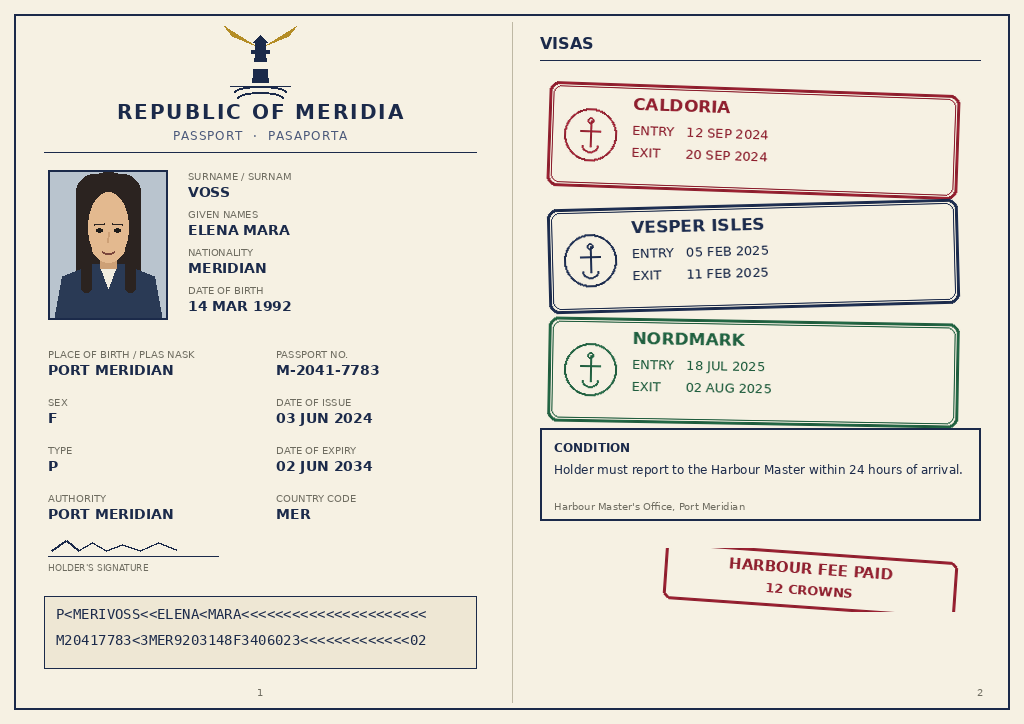
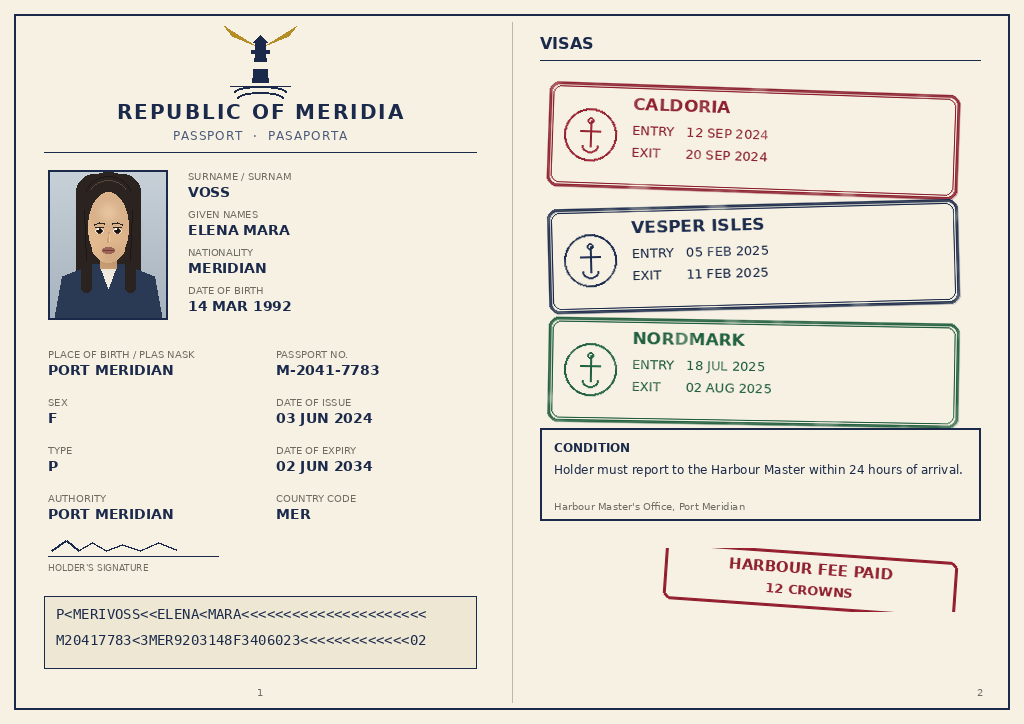
Fix weak parts: photo-like portrait shading + ink-like stamps (dates/names unchanged)

diff --git a/build-image.py b/build-image.py
@@ -9,7 +9,8 @@ running it twice produces a byte-identical PNG.
 
 import hashlib
 import os
-from PIL import Image, ImageDraw, ImageFont
+import random
+from PIL import Image, ImageChops, ImageDraw, ImageFilter, ImageFont
 
 W, H = 1024, 724
 CREAM = (246, 241, 227)
@@ -89,9 +90,20 @@ def lighthouse(draw, cx, top, scale=1.0):
 
 
 def portrait():
-    """Flat passport-style portrait: woman, dark hair, plain background."""
+    """Passport-style portrait, photo-like: woman, dark hair, navy blazer.
+    Gentle background gradient, soft radial light on the face, a shadow under
+    the chin, irises with catchlights, muted lips and hair strands — restrained,
+    like a real passport photo, not a cartoon."""
     pw, ph = 120, 150
-    img = Image.new("RGB", (pw, ph), PORTRAIT_BG)
+    # background: gentle vertical gradient, lighter at the top
+    top = (200, 209, 216)
+    bottom = (166, 178, 190)
+    grad = Image.new("RGB", (1, ph))
+    gpx = grad.load()
+    for y in range(ph):
+        t = y / (ph - 1)
+        gpx[0, y] = tuple(int(top[i] + (bottom[i] - top[i]) * t) for i in range(3))
+    img = grad.resize((pw, ph)).convert("RGBA")
     d = ImageDraw.Draw(img)
     # hair back (shoulder length)
     d.rounded_rectangle([28, 4, 92, 148], radius=18, fill=HAIR)
@@ -109,19 +121,45 @@ def portrait():
     d.rounded_rectangle([77, 34, 87, 122], radius=5, fill=HAIR)
     d.ellipse([36, 10, 84, 46], fill=HAIR)
     d.ellipse([40, 22, 80, 92], fill=SKIN)
-    # brows
-    d.line([46, 54, 56, 53], fill=HAIR, width=2)
-    d.line([64, 53, 74, 54], fill=HAIR, width=2)
-    # eyes
-    d.ellipse([48, 58, 54, 62], fill=(30, 28, 26))
-    d.ellipse([66, 58, 72, 62], fill=(30, 28, 26))
-    # nose
+    # hair strands: a few darker + lighter threads, softer edge
+    strand_dark = (28, 22, 20)
+    strand_light = (88, 70, 58)
+    d.arc([36, 6, 84, 52], 200, 340, fill=strand_dark, width=1)
+    d.arc([40, 10, 80, 46], 210, 330, fill=strand_light, width=1)
+    d.line([36, 40, 38, 90], fill=strand_dark, width=1)
+    d.line([84, 40, 82, 90], fill=strand_dark, width=1)
+    # soft light + shadow on the face (blurred, low alpha) — photo-like shading
+    overlay = Image.new("RGBA", (pw, ph), (0, 0, 0, 0))
+    od = ImageDraw.Draw(overlay)
+    od.ellipse([46, 28, 74, 56], fill=(255, 246, 230, 52))   # light, upper face
+    od.ellipse([54, 78, 80, 94], fill=(110, 70, 45, 36))     # shadow under chin
+    od.ellipse([74, 42, 84, 78], fill=(110, 70, 45, 20))     # shadow, right cheek
+    overlay = overlay.filter(ImageFilter.GaussianBlur(6))
+    img = Image.alpha_composite(img, overlay)
+    d = ImageDraw.Draw(img)
+    # brows, slightly arched
+    d.line([46, 54, 51, 52], fill=HAIR, width=2)
+    d.line([51, 52, 56, 53], fill=HAIR, width=2)
+    d.line([64, 53, 69, 52], fill=HAIR, width=2)
+    d.line([69, 52, 74, 54], fill=HAIR, width=2)
+    # eyes: sclera, iris, pupil, catchlight
+    for cx in (51, 69):
+        d.ellipse([cx - 4, 58, cx + 4, 63], fill=(242, 236, 228))
+        d.ellipse([cx - 3, 58, cx + 3, 63], fill=(94, 62, 40))
+        d.ellipse([cx - 2, 59, cx + 2, 62], fill=(22, 18, 16))
+        d.ellipse([cx - 2, 58, cx - 1, 59], fill=(255, 255, 255))
+    # lash line
+    d.line([47, 57, 55, 57], fill=HAIR, width=1)
+    d.line([65, 57, 73, 57], fill=HAIR, width=1)
+    # nose: soft shadow + highlight
     d.line([60, 62, 59, 72], fill=SKIN_DARK, width=2)
-    # mouth
-    d.arc([53, 76, 67, 84], 20, 160, fill=(122, 70, 60), width=2)
+    d.line([61, 64, 61, 71], fill=(240, 205, 168), width=1)
+    # mouth: muted closed lips
+    d.ellipse([54, 77, 66, 83], fill=(158, 100, 88))
+    d.line([55, 80, 65, 80], fill=(110, 62, 54), width=1)
     # frame
     d.rectangle([0, 0, pw - 1, ph - 1], outline=NAVY, width=2)
-    return img
+    return img.convert("RGB")
 
 
 def field(draw, x, y, label, value, label_size=10, value_size=14, width=200):
@@ -130,27 +168,51 @@ def field(draw, x, y, label, value, label_size=10, value_size=14, width=200):
 
 
 def stamp(text_lines, border, accent, rotate_deg, emblem="anchor"):
-    """One entry/exit stamp on its own layer, slightly rotated."""
+    """One entry/exit stamp on its own layer, slightly rotated.
+    Irregular, uneven ink like a real rubber stamp: a faint ghost border
+    (the stamp shifted a touch), a slightly fainter outer border, and
+    deterministic faded patches where the stamp was pressed unevenly."""
     sw, sh = 410, 104
     layer = Image.new("RGBA", (sw + 24, sh + 24), (0, 0, 0, 0))
     d = ImageDraw.Draw(layer)
     x0, y0 = 12, 12
+    ink = tuple(border) + (255,)
+    faint = tuple(border) + (60,)
+    # faint ghost border, offset 1px (the stamp shifted a touch on the page)
+    d.rounded_rectangle([x0 + 1, y0 + 1, x0 + sw + 1, y0 + sh + 1], radius=10,
+                        outline=faint, width=3)
+    # outer border, slightly fainter than the inner one
     d.rounded_rectangle([x0, y0, x0 + sw, y0 + sh], radius=10,
-                        outline=border, width=3)
+                        outline=tuple(border) + (215,), width=3)
     d.rounded_rectangle([x0 + 4, y0 + 4, x0 + sw - 4, y0 + sh - 4], radius=8,
-                        outline=border, width=1)
+                        outline=ink, width=1)
     # emblem: circle with a small anchor
     ex, ey, er = x0 + 16, y0 + sh // 2, 26
-    d.ellipse([ex, ey - er, ex + 2 * er, ey + er], outline=border, width=2)
-    d.line([ex + er, ey - 14, ex + er, ey + 12], fill=border, width=2)
-    d.arc([ex + er - 8, ey + 4, ex + er + 8, ey + 18], 0, 180, fill=border, width=2)
-    d.line([ex + er - 10, ey - 4, ex + er + 10, ey - 4], fill=border, width=2)
-    d.ellipse([ex + er - 3, ey - 17, ex + er + 3, ey - 11], outline=border, width=2)
+    d.ellipse([ex, ey - er, ex + 2 * er, ey + er], outline=ink, width=2)
+    d.line([ex + er, ey - 14, ex + er, ey + 12], fill=ink, width=2)
+    d.arc([ex + er - 8, ey + 4, ex + er + 8, ey + 18], 0, 180, fill=ink, width=2)
+    d.line([ex + er - 10, ey - 4, ex + er + 10, ey - 4], fill=ink, width=2)
+    d.ellipse([ex + er - 3, ey - 17, ex + er + 3, ey - 11], outline=ink, width=2)
     # country + entry/exit
     tx = x0 + 84
-    text(d, (tx, y0 + 10), text_lines[0], font(SANS_BOLD, 17), fill=border)
-    text(d, (tx, y0 + 38), text_lines[1], font(SANS, 13), fill=border)
-    text(d, (tx, y0 + 60), text_lines[2], font(SANS, 13), fill=border)
+    text(d, (tx, y0 + 10), text_lines[0], font(SANS_BOLD, 17), fill=ink)
+    text(d, (tx, y0 + 38), text_lines[1], font(SANS, 13), fill=ink)
+    text(d, (tx, y0 + 60), text_lines[2], font(SANS, 13), fill=ink)
+    # uneven ink: deterministic faded patches (pressed unevenly).
+    # Fixed seed per country so each stamp fades differently, yet every run
+    # produces the same image.
+    seed = 20261121 + sum(ord(c) for c in text_lines[0])
+    rng = random.Random(seed)
+    mask = Image.new("L", layer.size, 255)
+    md = ImageDraw.Draw(mask)
+    for _ in range(52):
+        x = rng.randint(0, layer.width - 1)
+        y = rng.randint(0, layer.height - 1)
+        r = rng.randint(3, 10)
+        md.ellipse([x - r, y - r, x + r, y + r], fill=rng.randint(170, 235))
+    mask = mask.filter(ImageFilter.GaussianBlur(2))
+    r_, g_, b_, a_ = layer.split()
+    layer = Image.merge("RGBA", (r_, g_, b_, ImageChops.multiply(a_, mask)))
     return layer.rotate(rotate_deg, resample=Image.BICUBIC, expand=False)
 
 
